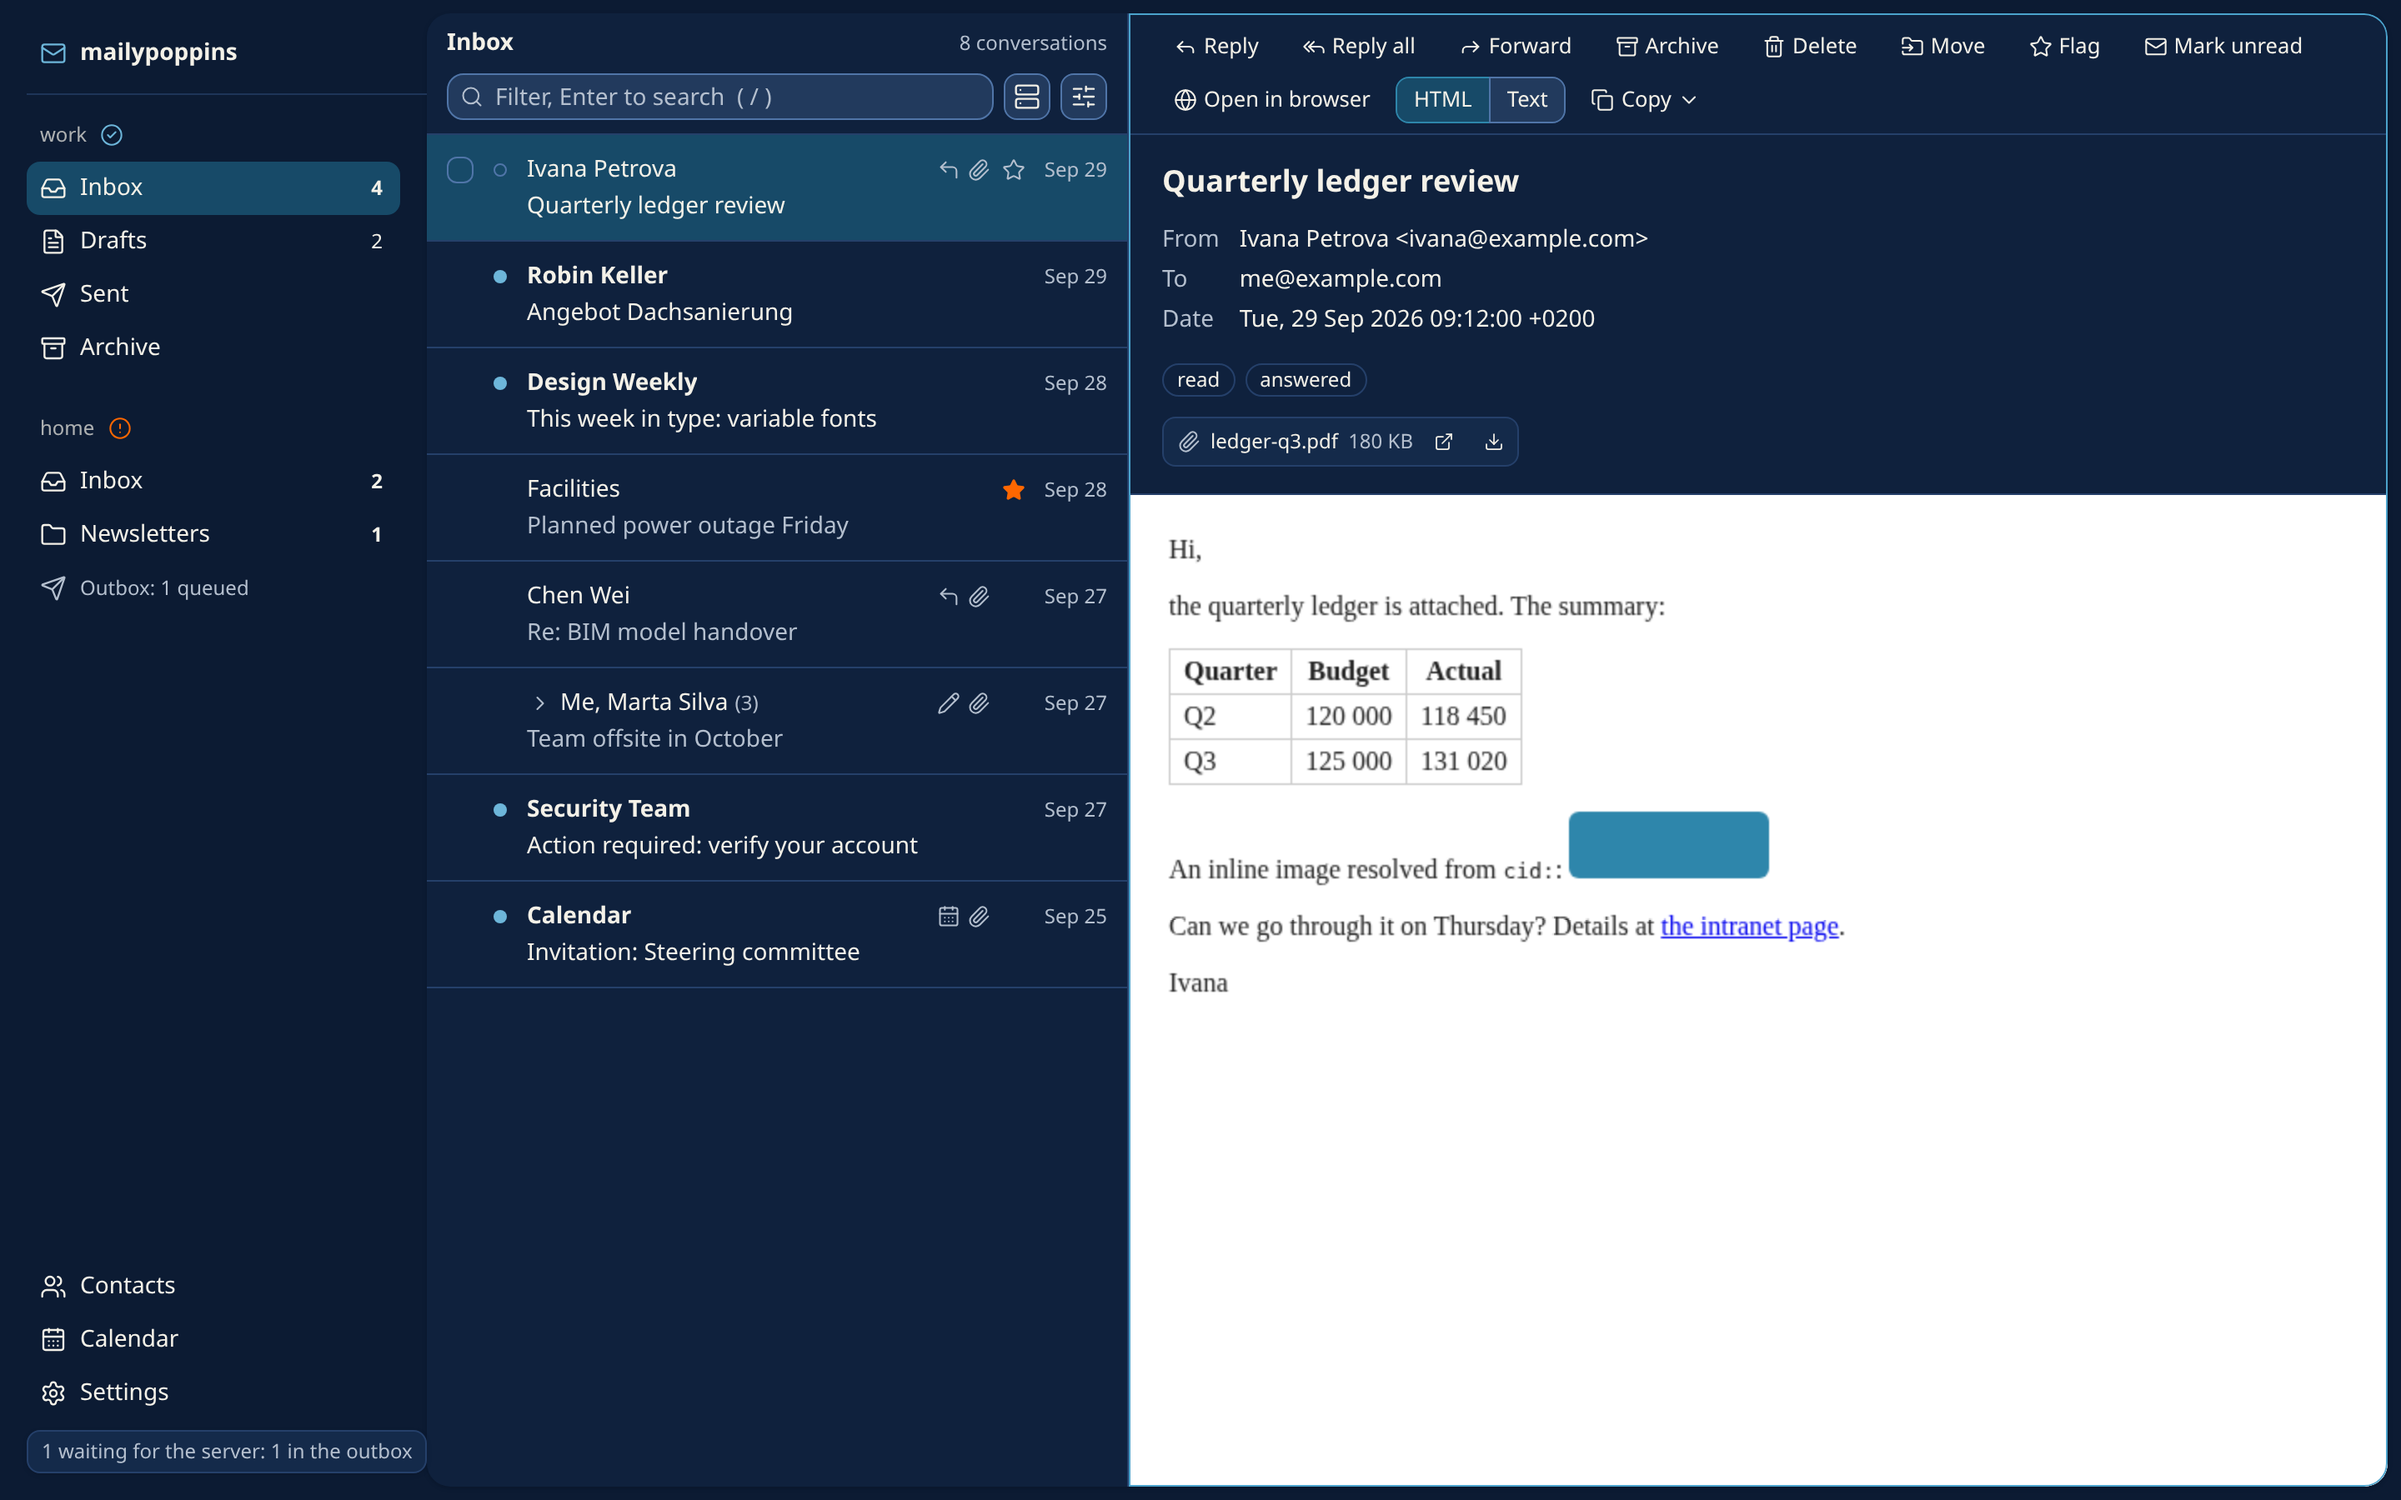
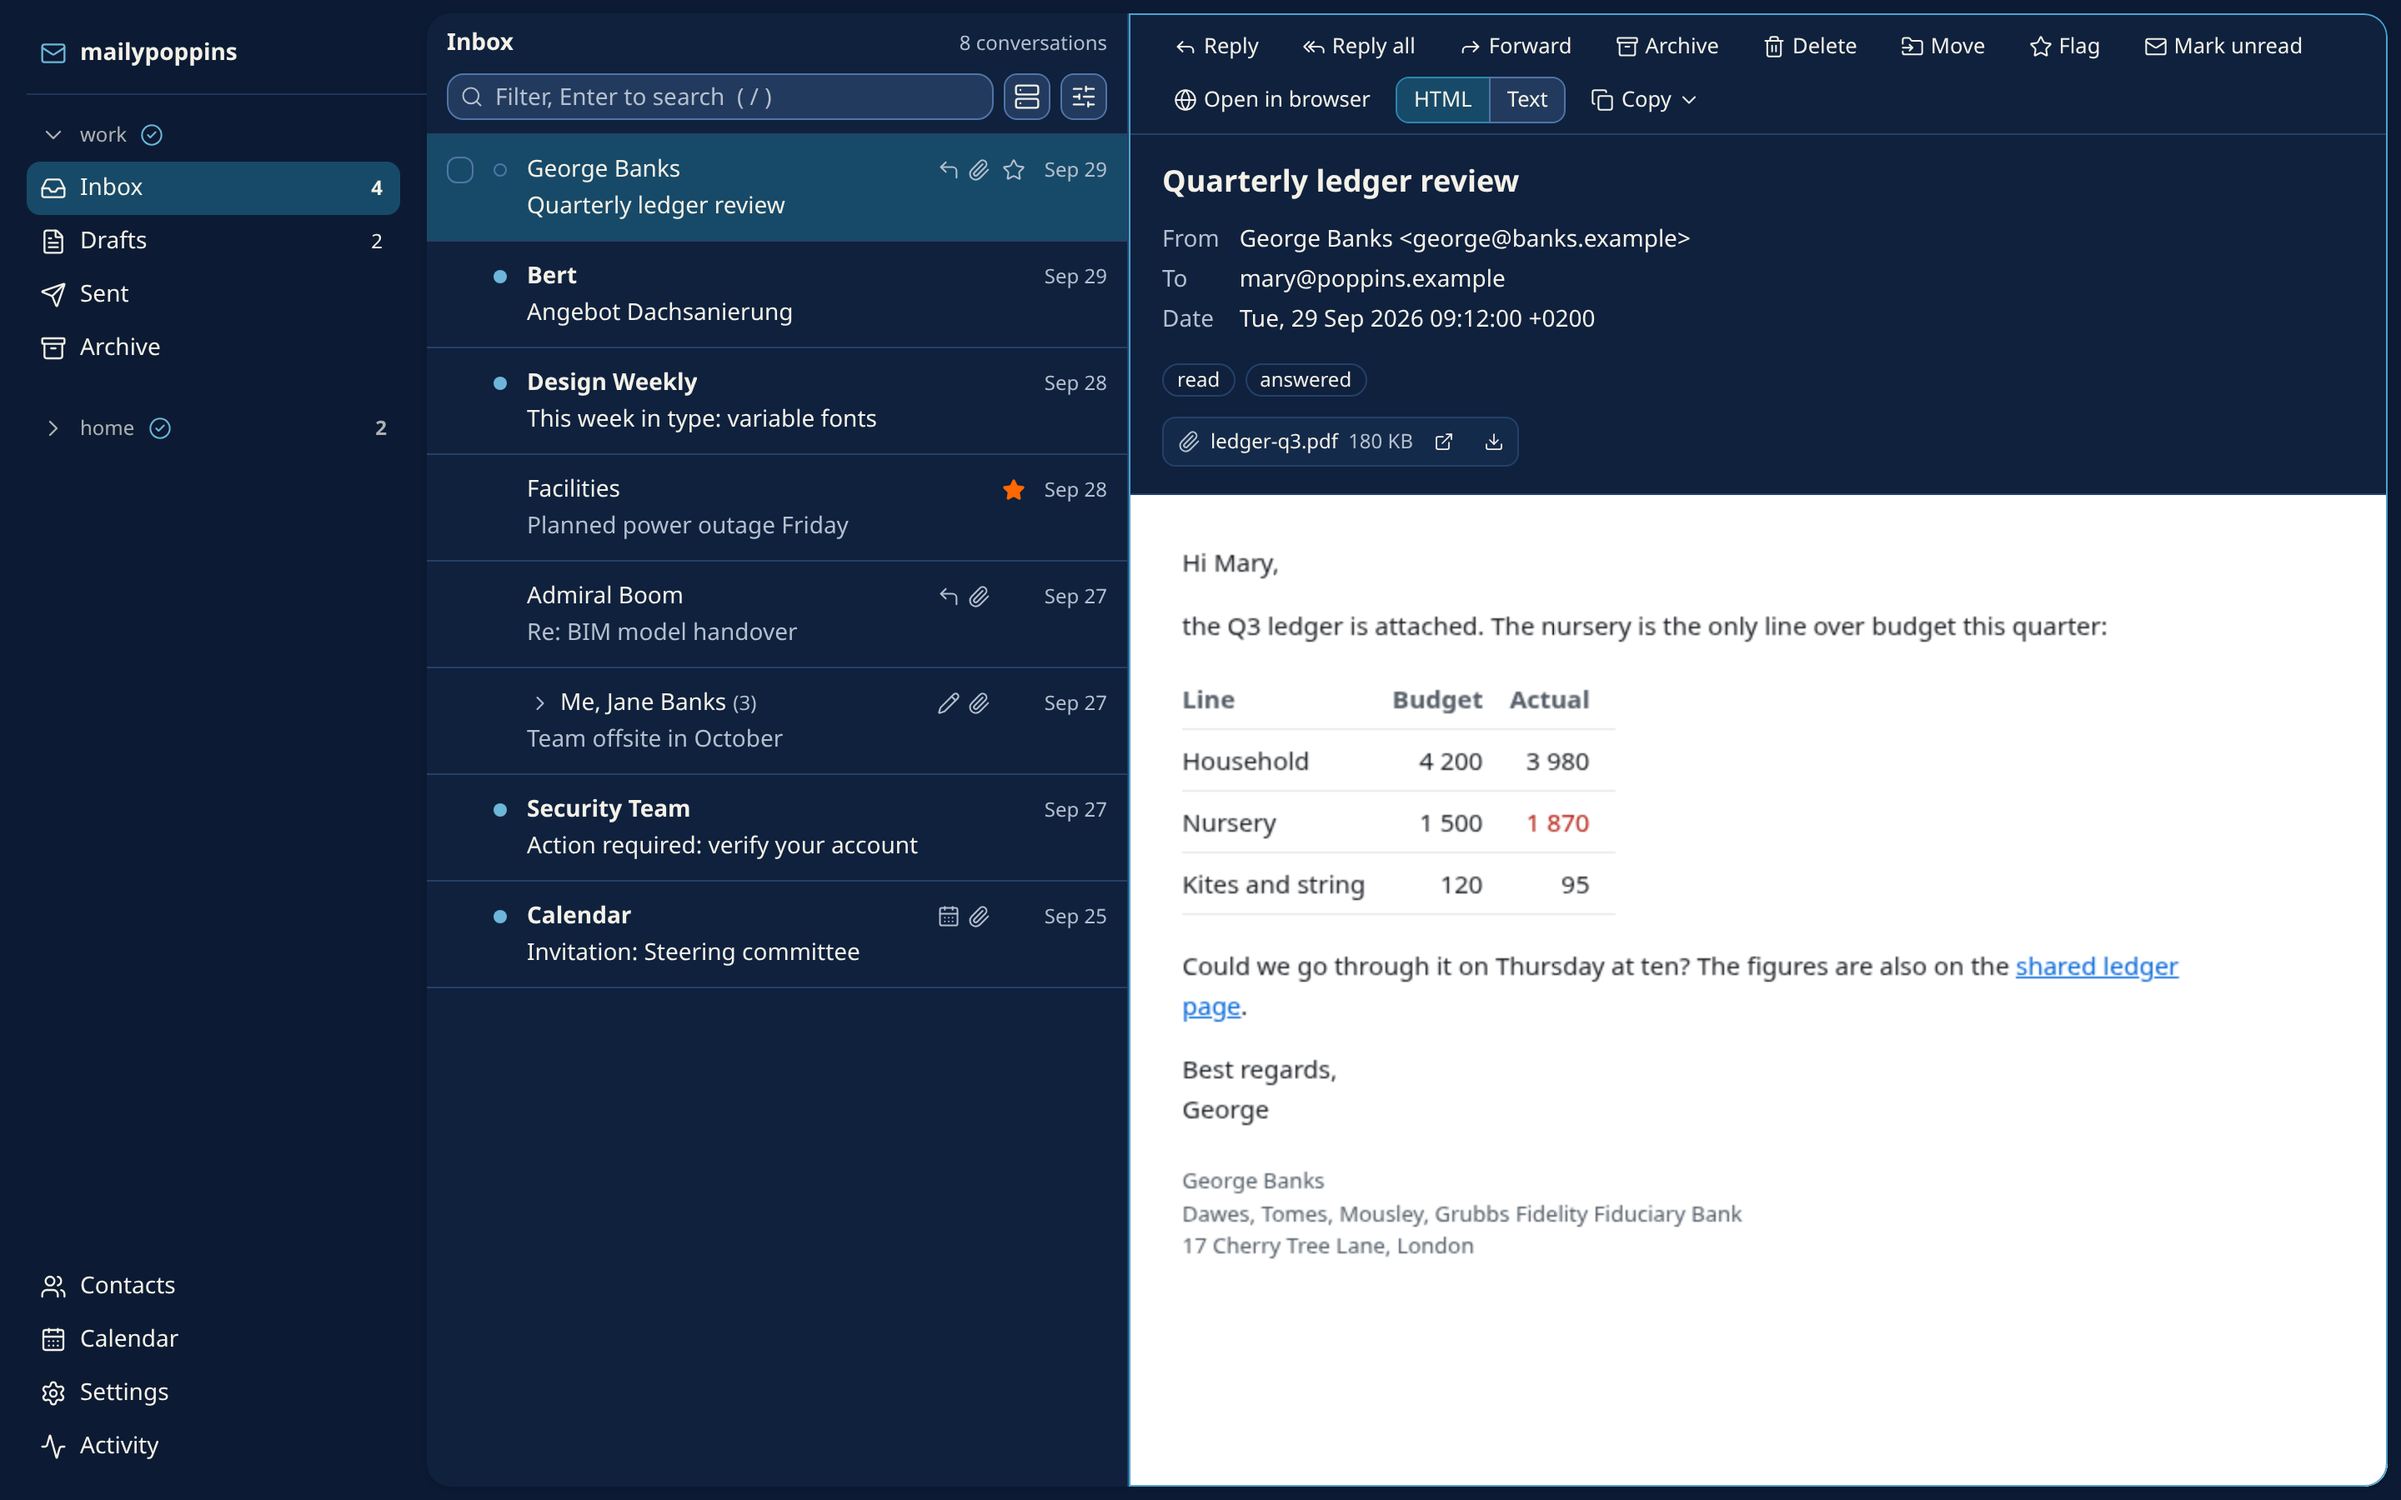
docs: install with the fully qualified Homebrew formula, README intro in Sylvain's words, screenshot on a recast fixture

diff --git a/scripts/readme-screenshot.py b/scripts/readme-screenshot.py
@@ -4,8 +4,13 @@
 # ///
 """Regenerate the README's desktop screenshot from the browser preview.
 
-The browser preview serves the desktop frontend on its fixture backend, so the
-screenshot shows fictional mail only (clients/desktop/docs/browser-preview.md).
+The browser preview serves the desktop frontend on its fixture backend
+(clients/desktop/docs/browser-preview.md).
+Before the app mounts, STAGE recasts the fixture for the picture: the people
+become Mary Poppins characters, so no name can belong to a real person, the
+opened message gets a cleaner rendition, and the seeded send hold, outbox row
+and account warning that the tests need are cleared.
+The fixture files themselves stay as the tests expect them.
 
     cd clients/desktop && pnpm preview:browser --host <tailnet-ip>
     uv run scripts/readme-screenshot.py --url http://<tailnet-ip>:1430/
@@ -15,11 +20,93 @@ The CDP endpoint defaults to BrowserOS neo on the home server.
 
 import argparse
 import asyncio
+import json
 from pathlib import Path
 
 from playwright.async_api import async_playwright
 
 OUT = Path(__file__).resolve().parent.parent / "docs" / "screenshots" / "desktop-app.png"
+
+LEDGER_HTML = """<!doctype html>
+<html><head><meta charset="utf-8"><title>Quarterly ledger review</title>
+<style>
+body{font:15px/1.6 system-ui,-apple-system,"Segoe UI","Noto Sans",Helvetica,Arial,sans-serif;color:#1f2328;background:#fff;margin:28px 32px;max-width:640px}
+p{margin:0 0 14px}
+table{border-collapse:collapse;margin:4px 0 18px;font-variant-numeric:tabular-nums}
+th,td{padding:6px 16px 6px 0;text-align:left;border-bottom:1px solid #e5e7eb}
+th{font-weight:600;color:#57606a}
+td.num,th.num{text-align:right}
+.over{color:#b42318}
+a{color:#0969da}
+.sig{color:#57606a;font-size:13px;line-height:1.5;margin-top:22px}
+</style></head><body>
+<p>Hi Mary,</p>
+<p>the Q3 ledger is attached. The nursery is the only line over budget this quarter:</p>
+<table>
+<tr><th>Line</th><th class="num">Budget</th><th class="num">Actual</th></tr>
+<tr><td>Household</td><td class="num">4 200</td><td class="num">3 980</td></tr>
+<tr><td>Nursery</td><td class="num">1 500</td><td class="num over">1 870</td></tr>
+<tr><td>Kites and string</td><td class="num">120</td><td class="num">95</td></tr>
+</table>
+<p>Could we go through it on Thursday at ten? The figures are also on the <a href="https://bank.example/ledger">shared ledger page</a>.</p>
+<p>Best regards,<br>George</p>
+<div class="sig">George Banks<br>Dawes, Tomes, Mousley, Grubbs Fidelity Fiduciary Bank<br>17 Cherry Tree Lane, London</div>
+</body></html>"""
+
+LEDGER_TEXT = (
+    "Hi Mary,\n\nthe Q3 ledger is attached. The nursery is the only line over budget this quarter.\n\n"
+    "Could we go through it on Thursday at ten?\n\nBest regards,\nGeorge\n"
+)
+
+# Longest keys first, so a full name is replaced before its first name.
+NAMES = {
+    "Ivana Petrova": "George Banks",
+    "Robin Keller": "Bert",
+    "Robin Meyer": "Bert",
+    "Marta Silva": "Jane Banks",
+    "Anna Keller": "Ellen",
+    "Chen Wei": "Admiral Boom",
+    "ivana@example.com": "george@banks.example",
+    "robin@example.com": "bert@cherrytree.example",
+    "marta@example.com": "jane@banks.example",
+    "anna@example.net": "ellen@cherrytree.example",
+    "chen@example.org": "boom@cherrytree.example",
+    "me@example.com": "mary@poppins.example",
+    "Ivana": "George",
+    "Robin": "Bert",
+    "Marta": "Jane",
+    "Anna": "Ellen",
+    "Chen": "Admiral",
+}
+
+STAGE = """
+(([names, html, text]) => {
+  const recast = (value) => {
+    let s = JSON.stringify(value);
+    for (const [from, to] of Object.entries(names)) s = s.split(from).join(to);
+    return JSON.parse(s);
+  };
+  let backend;
+  Object.defineProperty(window, "mpFixture", {
+    configurable: true,
+    get: () => backend,
+    set: (b) => {
+      backend = b;
+      const fx = b.fixtures;
+      for (const key of ["messages", "drafts", "draftBodies", "html", "contacts", "calendar", "bootstrap"]) fx[key] = recast(fx[key]);
+      const snap = fx.bootstrap.snapshot;
+      snap.holds = [];
+      snap.diagnostics = [];
+      for (const counts of Object.values(snap.outbox)) counts.queued = 0;
+      for (const account of snap.accounts) account.sync_health = { state: "ok" };
+      fx.html["1001"] = html;
+      fx.messages.work.inbox.find((row) => row.id === 1001).body = text;
+      b.resetMock();
+      b.mock.editorFixture = true;
+    },
+  });
+})
+"""
 
 
 async def main(url: str, cdp: str) -> None:
@@ -29,15 +116,14 @@ async def main(url: str, cdp: str) -> None:
             viewport={"width": 1440, "height": 900}, device_scale_factor=2, color_scheme="dark"
         )
         page = await ctx.new_page()
+        await page.add_init_script(
+            f"{STAGE}({json.dumps([NAMES, LEDGER_HTML, LEDGER_TEXT])})"
+        )
         await page.goto(url)
         await page.wait_for_timeout(2500)
-        # The fixture starts with an armed send hold and an account warning banner.
-        await page.get_by_role("button", name="Cancel").first.click(timeout=5000)
-        await page.locator("button:has(svg.lucide-x)").first.click(timeout=5000)
         await page.get_by_text("Quarterly ledger review").first.click()
         await page.keyboard.press("Enter")
-        # Wait out the "Send cancelled" toast.
-        await page.wait_for_timeout(9000)
+        await page.wait_for_timeout(2500)
         await page.screenshot(path=str(OUT))
         await ctx.close()
     print(OUT)

diff --git a/README.md b/README.md
@@ -1,12 +1,16 @@
 # mailypoppins
 
-I live in the terminal and write everything in Neovim, except my email.
-No mainstream client let me read and edit a message in Neovim, and the system-wide Vim layers on the Mac never worked well.
-I also wanted my AI agents to help with email: tell me which messages still wait for an answer, and check my drafts for typos, missing points and language before I send them.
-With Copilot and the AI extensions of existing clients, that meant pasting my text into a chat, pasting the corrections back, and never seeing what the agent had changed.
-So I wrote my own client.
-In mailypoppins every draft is a Markdown file that I write in Neovim and my agent edits in place.
-Because it is a plain file, I see the agent's changes as a diff, and nothing is sent before I approve it.
+I created mailypoppins for two reasons.
+
+First, I wanted to read and edit my emails in Neovim, like I edit everything else.
+I live in the terminal, none of the mainstream email clients let me do that, and the global Vim layers on the Mac all fall short.
+
+Second, I wanted my AI agents to help me with email: tell me which messages I still have to answer, and check my drafts for typos, missing points and language before I send them.
+I wanted to work on a draft together with the agent, without copying my text over to it and its corrections back, and to see the difference between my version and its version.
+None of this worked with Copilot or the AI extensions of existing email clients.
+
+So I built it myself.
+In mailypoppins every draft is a Markdown file: I write it in Neovim, my agent edits the same file, and a diff shows what it changed.
 
 ![The mailypoppins desktop app](docs/screenshots/desktop-app.png)
 
@@ -38,9 +42,10 @@ A change made in one client shows up in the others at once.
 Install the command line and the terminal UI with Homebrew, on macOS or Linux:
 
 ```sh
-brew tap sylvainHellin/mailypoppins
-brew install mailypoppins
+brew install sylvainHellin/mailypoppins/mailypoppins
 ```
+
+The full name taps the repository and trusts only this formula, which Homebrew 6 requires for any third-party tap.
 
 The desktop app is a DMG for Apple silicon on the [releases page](https://github.com/sylvainHellin/mailypoppins/releases); it carries its own `mp`.
 The app is not signed yet, so macOS blocks its first launch: the [getting started guide](https://mailypoppins.com/getting-started/#mac-app) shows how to allow it and how to use the app's `mp` from a terminal.

diff --git a/CHANGELOG.md b/CHANGELOG.md
@@ -30,6 +30,7 @@ All notable changes to this project are documented in this file.
 
 ### Fixed
 - Sending: a forwarded `.eml` is labelled `7bit` or `8bit` as RFC 2046 requires and is never re-encoded; one with a line over 998 octets goes as `application/octet-stream` under the same name, and so does any 8bit one to an SMTP server that does not offer 8BITMIME, where the send retries once without anything going out twice (PERSO-174).
+- Install: the README, the website and the release notes install with `brew install sylvainHellin/mailypoppins/mailypoppins`, since Homebrew 6 refuses a short-name install from an untrusted tap.
 - Desktop: a pressed toggle shows as pressed in the dark theme (Theme, Reader, Editor colours, the reader's HTML and Text), and the Calendar view's Past events toggle shows when it is on.
 - Desktop: the attachment picker highlights its cursor row (PERSO-159).
 - Desktop and TUI: the palette lists the best match first, scored the same way in both clients, so a typed name and Enter run it; while a search runs, each desktop row names its section.

diff --git a/docs/lessons-learned.md b/docs/lessons-learned.md
@@ -2918,3 +2918,8 @@ The transport exposes no EHLO answer to check first, so `send::submit_through` c
 ## A server-only hit's .eml comes from fetch_raw, not from the store (2026-10-22)
 
 A server-search hit with no row has a `Message-ID` and a mailbox, which is all `message_eml::fetch_raw` needs: `message.materialise_eml`'s `hit` address and `draft.forward`'s `source.hit` download the raw copy without ingesting it, so the hit stays a hit and no unread count moves (PERSO-174).
+
+## Homebrew 6 refuses a short-name install from an untrusted tap (2026-10-22)
+
+Since Homebrew 6.0, `brew tap` followed by a short-name `brew install mailypoppins` fails with "Refusing to load formula ... from untrusted tap", because a third-party tap needs explicit trust before Homebrew evaluates its Ruby.
+The fully qualified name `sylvainHellin/mailypoppins/mailypoppins` taps the repository and trusts only that formula in one step, so every install instruction uses it; a user who tapped earlier runs `brew trust --formula` on that name once.

diff --git a/docs/release-process.md b/docs/release-process.md
@@ -203,9 +203,15 @@ the `.app` and `dmg/` for the DMG, where `<target dir>` is
 Users install with:
 
 ```sh
-brew tap sylvainHellin/mailypoppins
-brew install mailypoppins
+brew install sylvainHellin/mailypoppins/mailypoppins
 ```
+
+Since Homebrew 6.0, a third-party tap is untrusted until the user trusts it,
+and `brew tap` followed by a short-name `brew install mailypoppins` fails with
+"Refusing to load formula ... from untrusted tap". The fully qualified name
+taps the repository and trusts only this formula in one step. A user who
+tapped before Homebrew 6 runs
+`brew trust --formula sylvainHellin/mailypoppins/mailypoppins` once.
 
 The formula ([packaging/homebrew/mailypoppins.rb.tmpl](../packaging/homebrew/mailypoppins.rb.tmpl))
 downloads prebuilt release binaries instead of building from source, so
